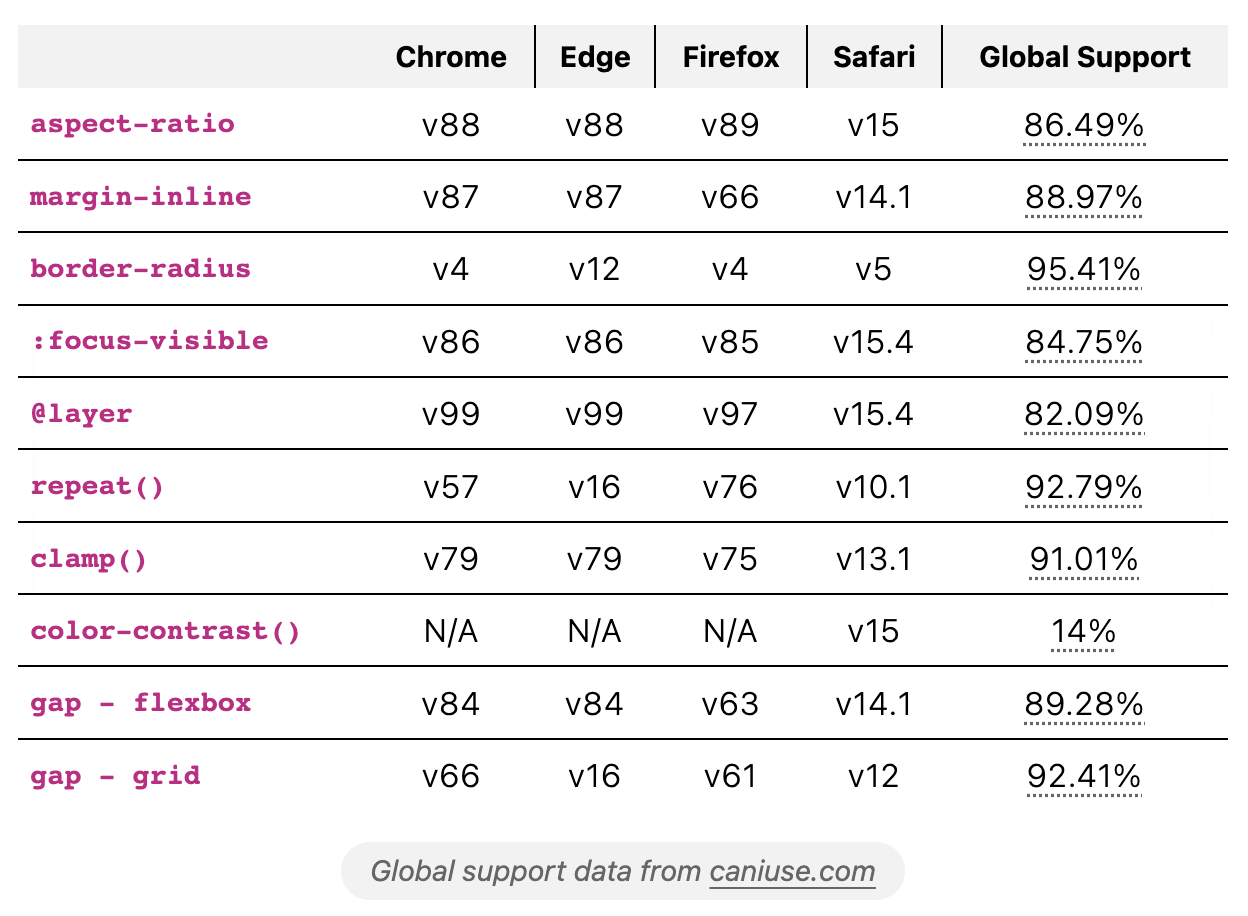
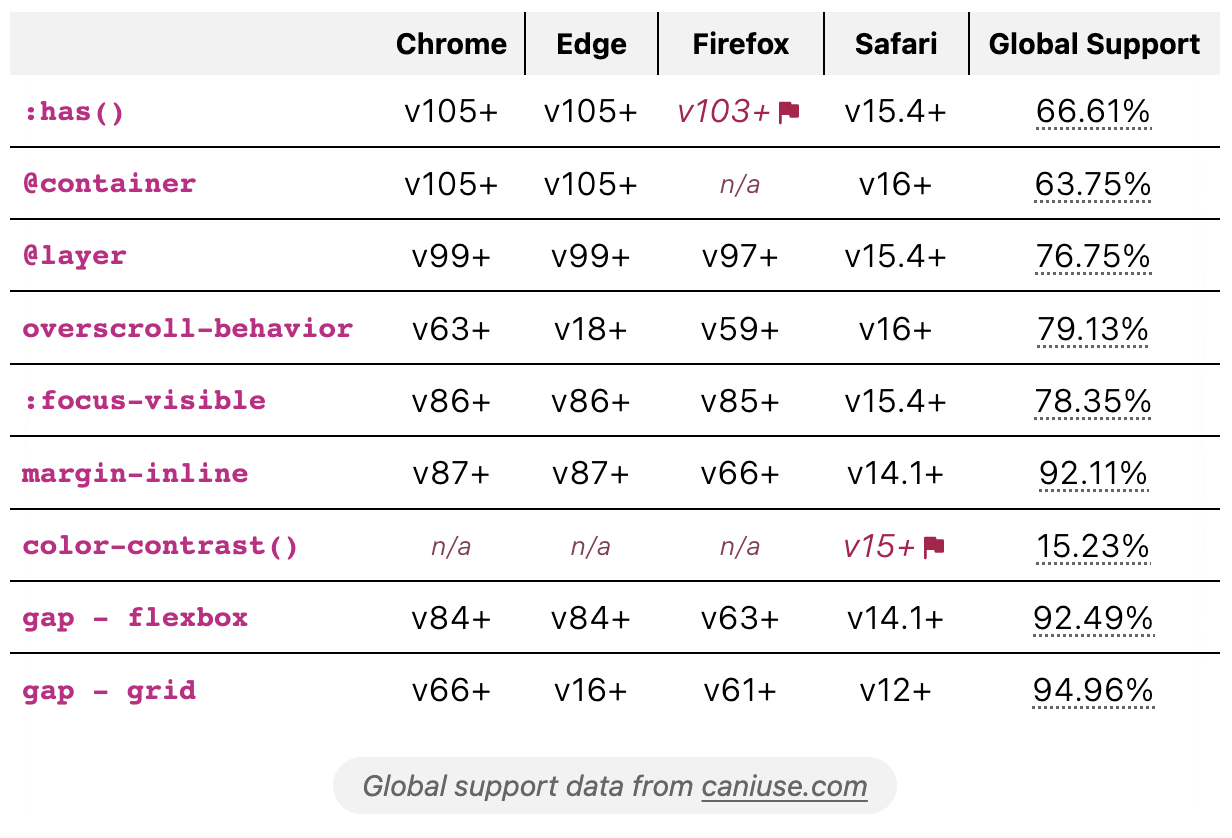
Update example table

diff --git a/index.md b/index.md
@@ -10,7 +10,7 @@ Marshmallow macaroon {{ 'repeat()' | cssSupport }} I love I love jelly beans pud
 
 Fruitcake soufflé bonbon cupcake gingerbread I love jelly beans ice cream bonbon. Sugar plum marshmallow marshmallow cake apple pie marzipan sweet tootsie roll croissant.
 
-{% cssSupportTable ":has(), @container, @layer, overscroll-behavior, :focus-visible, margin-inline, gap, repeat(), clamp(), color-contrast()" %}
+{% cssSupportTable ":has(), @container, @layer, overscroll-behavior, :focus-visible, margin-inline, gap, color-contrast()" %}
 
 Cake {{ 'gap' | cssSupport }} muffin cupcake danish. Chocolate `aspect-ratio` cake croissant tiramisu lollipop jelly lollipop cookie caramels cookie.
 
